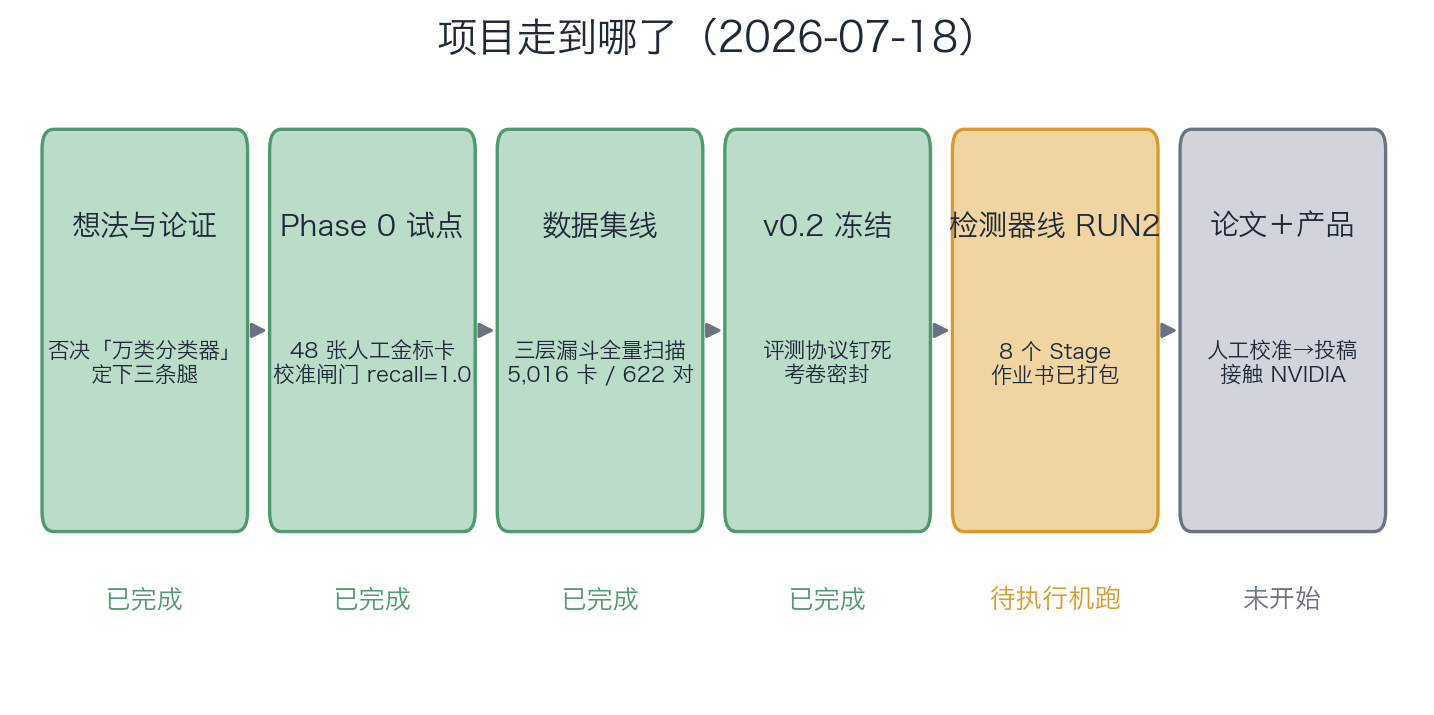
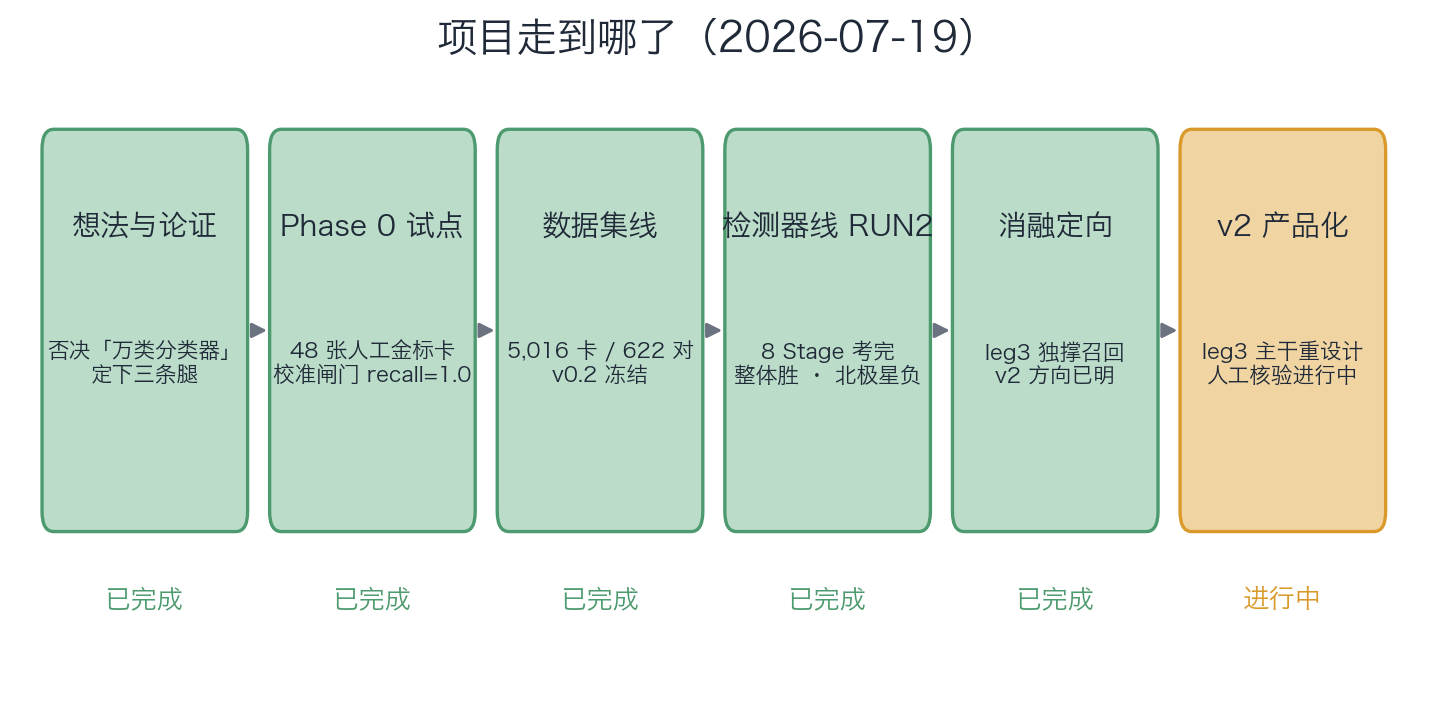
docs: summary.docx v2 — RUN2 results, ablation truth, product-first pivot
- new figure f9: five-way showdown scorecard on frozen test subset
- ch.5 rewritten from "in progress" to "done": scorecard, ablation
  (leg3 carries recall, adversarial layer fails to generalize), v2 direction
- ch.7 marked paused (product-first per 2026-07-19 decision)
- ledger updated to project total ~$7,637; appendices B/C refreshed
- roadmap f8: RUN2 done, v2 productization in progress

diff --git a/docs/summary_src/content.js b/docs/summary_src/content.js
@@ -11,7 +11,7 @@ module.exports = [
   "有半小时：读第 1 到第 6 章，能完整理解我们做了什么、正在做什么、最终做成什么。",
   "要完整掌握（包括论文策略、花费、每个数字的出处）：通读全文加附录。",
 ]},
-{p: "文中所有数字都来自 2026-07-18 冻结的数据集 v0.2 的出厂检验单（`reports/dataset_stats.md`）与第二轮作业书（`RUN2_INSTRUCTIONS.md`），撰写本文时已逐一与磁盘上的数据文件核对过。"},
+{p: "文中所有数字来自数据集 v0.2 出厂检验单（`dataset_stats.md`）、第二轮作业书（`RUN2_INSTRUCTIONS.md`），以及 2026-07-19 回运的 RUN2 正式成绩单（`baseline_results.md` / `detector_v1_results.md`）；撰写与更新时均逐一与磁盘文件核对，并经独立审查 agent 三路交叉验证。"},
 {pb: true},
 
 // ==================== 第 1 章 ====================
@@ -30,7 +30,7 @@ module.exports = [
 
 {h2: "1.4 项目走到哪了"},
 {img: {name: "f8_roadmap", cap: "图 2 · 项目进度（2026-07-18）"}},
-{p: "一句话概括现状：**数据集已经全部做完并冻结**（花费约 $4,470）；**检测器的全部实验已写成一份自包含的作业书**（预算帽 $2,000），打包在 `~/Desktop/papers/AI_infra/DB/ai_infra_run2.zip`，等着搬到执行机上跑。跑完之后，我们手里就有「strict-review 对我们的检测器，同一张考卷上的真实比分」。"},
+{p: "一句话概括现状：数据集做完冻结（$4,470），检测器第一版也已经考完试（RUN2，$3,167，经批准）——**「strict-review 对我们」的真实比分已经拿到**（见 5.5 节）：整体我们赢，北极星暂输，而消融实验把 v2 该怎么改指得清清楚楚。项目已整理进 `bug_detect/` 主目录（含所有开发 agent 必读的项目宪章 `constitution.md`），并推送到 GitHub 仓库 `huthvincent/strict-review`。**方向调整（2026-07-19，Rui 拍板）：产品优先，暂缓论文**——目标就是做出真正可用、真正更好的 strict-review 替代品。"},
 {pb: true},
 
 // ==================== 第 2 章 ====================
@@ -228,10 +228,10 @@ module.exports = [
 {pb: true},
 
 // ==================== 第 5 章 ====================
-{h1: "第 5 章 · 正在做：检测器线（RUN2 作业书）"},
+{h1: "第 5 章 · 已完成：检测器线（RUN2）及其结果"},
 
-{h2: "5.1 这一轮要回答的问题"},
-{p: "数据集回答的是「考卷是什么」；这一轮回答四个问题：**对手考多少分？我们的检测器 v1 考多少分？换个仓库还灵吗？对真实的、谁都没见过的新 commit 灵吗？** 全部工作已写成一份自包含的作业书 `RUN2_INSTRUCTIONS.md`（执行机的入口导引 `NEXT_FOR_EXECUTOR.md` 只有一页，直接指向它），8 个阶段，预算帽 $2,000，估算合计约 $1,450——下文各 Stage 括号里的金额是**分帽上限**（加总 $1,520，含缓冲），不是估算值。"},
+{h2: "5.1 这一轮回答了什么"},
+{p: "数据集回答的是「考卷是什么」；这一轮回答四个问题：**对手考多少分？我们的检测器 v1 考多少分？换个仓库还灵吗？对真实的、谁都没见过的新 commit 灵吗？** 全部工作写成一份自包含的作业书 `RUN2_INSTRUCTIONS.md`，8 个阶段，**已于 2026-07-19 在执行机上全部跑完并通过三路验收**。实际花费 $3,167——原帽 $2,000，中途经 Rui 批准上调至约 $3,000，超出部分已按宪章留痕。下文按阶段介绍各做了什么（括号里是当时的分帽上限），成绩单在 5.5。"},
 {img: {name: "f6_run2", cap: "图 8 · RUN2 的 8 个 Stage 与预算分配"}},
 
 {h2: "5.2 两条不可违反的铁律"},
@@ -239,6 +239,7 @@ module.exports = [
   "**test 只碰一次**。所有开发、调参、prompt 迭代只准在 dev 上做；配置冻结后在 test 上跑**唯一一次**，效果不佳也如实报告，绝不回头改了再跑。否则就是「反复偷看考卷直到考好」，数字作废。",
   "**呈现规则**（4.9 ②）贯穿全程：任何检测器（包括对手 baseline）的输入里禁止出现事后字段。",
 ]},
+{p: "执行结果：两条铁律全程未破——15 份预测文件逐行核验 `leak_attempt` 均为 0；test 只在 Stage 4 开封一次，冻结版成绩不理想也**没有**回头改配置重跑（正因如此，5.5 的消融发现才可信）。"},
 
 {h2: "5.3 八个阶段逐个说"},
 {h3: "Stage 1 · 评测地基（$60）"},
@@ -264,9 +265,9 @@ module.exports = [
 {h3: "Stage 5 · 跨仓库泛化（$120）"},
 {p: "用「训练时完全不看 Megatron-LM、只用另外三个仓库的知识」的检测器去考 Megatron-LM 的题，回答「这套方法换个新仓库还灵吗」——这决定产品能不能推广到 Megatron 之外。"},
 {h3: "Stage 6 · 前瞻试运行（$40）"},
-{p: "历史考卷再漂亮也不等于上线能用。这一步 `git fetch` 更新四个仓库的本地副本，然后取 **Megatron-LM 上数据集完全没见过的新 commit**（2026-07-01 之后的全部提交；不足 80 个则放宽到 06-15 之后），用冻结的检测器盲跑一遍。它直接回答「这套东西上线到底能不能用」——产品 demo 的雏形，产出可以拿给 NVIDIA 的人看。"},
+{p: "历史考卷再漂亮也不等于上线能用。这一步 `git fetch` 更新四个仓库的本地副本，然后取 **Megatron-LM 上数据集完全没见过的新 commit**（2026-07-01 之后的全部提交；不足 80 个则放宽到 06-15 之后），用冻结的检测器盲跑一遍。它直接回答「这套东西上线到底能不能用」——产品 demo 的雏形，产出可以拿给 NVIDIA 的人看（实跑 61 个新 commit，结果见 5.5）。"},
 {h3: "Stage 7 · 人工验证抽样包（$20）"},
-{p: "生成一个给 Rui 判的抽样包：150 个回归配对＋357 张案例卡（357 是按统计学惯例算的：对 5,016 张卡做 95% 置信度、5% 误差的抽样所需量），每项只需判「对 / 错」，预计 1–3 天。这是全项目**唯一只有人能做**的事，决定论文能否从「机器共识」升级为「人工校准」（见 7.3）。"},
+{p: "生成一个给 Rui 判的抽样包：150 个回归配对＋360 张案例卡（目标 357——对 5,016 张卡做 95% 置信度、5% 误差抽样的统计学标准量；为保证每个大类至少 5 张而补足到 360），每项只需判「对 / 错」，预计 1–3 天。这是全项目**唯一只有人能做**的事，也是机器标注质量的最终校准。抽样包已生成，在 `bug_detect/audit/`，等 Rui 回填。"},
 {h3: "Stage 8 · 论文素材包（$30）"},
 {p: "把全部数字整理成论文可直接引用的表格与图数据，成绩单顶部固定印静态天花板 57.1% 与记忆污染探测结果。"},
 
@@ -284,8 +285,13 @@ module.exports = [
   "}",
 ]},
 
-{h2: "5.5 跑完之后项目在哪"},
-{p: "RUN2 结束时我们将拥有：对手与我们在同一张密封考卷上的比分、每个部件的贡献证明（消融）、跨仓泛化数字、真实新 commit 上的前瞻表现、等待人工判定的验证包、以及论文全套素材。换句话说：**除了「Rui 花 1–3 天判抽样包」之外，一篇数据集＋检测器论文的全部实验就绪。**"},
+{h2: "5.5 成绩单：谁赢了，输在哪，v2 怎么改"},
+{img: {name: "f9_showdown", cap: "图 9 · 五位选手在同一张密封考卷上的实测成绩（judge κ=0.926，跨家族一致 89%）"}},
+{p: "**第一层：对手比想象中弱，而且弱得有趣。** strict-review 整体召回 13.1%、北极星 14.9%、误报率 17%；而**什么清单都不给的裸 Opus 召回几乎一样（12.2% / 14.9%），误报率却只有 5%**——NVIDIA 那 140 行手写 rubric 在召回上零增益，还把误报率抬了三倍多。关键词法 0% 坐实「任务不在 commit 文字里」；异族的 Nova Pro 全面落后，坐实排行榜不是在测「与标注者 Opus 的亲缘度」。"},
+{p: "**第二层：我们的冻结版赢了整体、输了北极星。** 检测器 v1：整体 **18.6%**（高于所有对手），单价还便宜 33%（$0.233 对 $0.347）；但北极星（回归修复类）12.3%，输给两条 Opus baseline 的 14.9%；误报率 14.9% 也不算好看。这是一个如实上报的混合结果。"},
+{p: "**第三层（最重要）：消融揭示了输在哪，而答案是好消息。** 腿 3（风险路由）一条腿承载了几乎全部召回——去掉它，整体从 18.6% 崩到 3.5%（−15.1 个百分点）；腿 1、腿 2 和对抗验证层在 test 上全是**净负贡献**（低质发现挤占了每 commit 只有 2 条的报警名额；对抗层在 dev 上降 7 个点误报的收益，到 test 缩水成 2.8 个点，召回代价却不变——典型的泛化失败）。**预登记的消融变体「去掉对抗层」北极星拿到 18.0%，反超所有选手**——因为消融是冻结前写进作业书的授权动作，这个数字可以正当引用。v2 的方向由此毫无悬念：**以腿 3 为主干，其余组件重新设计后才准回来。**"},
+{p: "**第四层：能不能用？** 前瞻试运行对 61 个数据集从没见过的 Megatron 新 commit 盲跑，26 个被标记（43%——作为门禁偏话痨，v2 要压）。质量分化明显：腿 2/腿 3 出的多条是机制级分析（如「默认路由策略被同时改了三处」「每个 microbatch 强制一次阻塞式 all-gather」），一看就值得人审；腿 1 的静态规则则有肉眼可见的误报模式（匹配到了测试夹具代码）。top-20 勾选清单在 `bug_detect/detector/reports/prospective_run.md`，**Rui 判完它，就是给 NVIDIA 的第一份 demo 材料**。"},
+{p: "其余数字：跨仓泛化实验显示排除 Megatron 知识只损失 4.8 个百分点（腿 1/腿 2 本来贡献就小）；记忆污染探测扩到全量 934 项仍为 0；对终极目标最重要的资产——`leg3_recipe_map.json`（74 个叶子 → Megatron 性能测试配方的映射表）——已经在手，可直接交付。"},
 {pb: true},
 
 // ==================== 第 6 章 ====================
@@ -313,7 +319,7 @@ module.exports = [
   ["验证", "无", "对抗验证杀误报＋性能 CI 实测数字"],
   ["误报控制", "无机制", "预算制（每 commit 最多 2 条）＋对抗层"],
   ["可检测范围", "只能静态看（上限 57.1%）", "静态 57.1% ＋ 路由实测覆盖其余 42.9%"],
-  ["成绩", "从未被测量", "与我们同卷对决，数字见 RUN2"],
+  ["成绩（RUN2 实测）", "整体 13.1% / 北极星 14.9% / 误报 17%", "v1 整体 18.6%（已胜）；北极星 12.3%，消融证明 ≥18% 可达（v2 目标）"],
 ]}},
 
 {h2: "6.3 诚实边界"},
@@ -321,7 +327,9 @@ module.exports = [
 {pb: true},
 
 // ==================== 第 7 章 ====================
-{h1: "第 7 章 · 论文与竞争格局"},
+{h1: "第 7 章 · 论文与竞争格局（已暂缓，留作背景）"},
+
+{quote: "2026-07-19 更新：Rui 决定**产品优先，暂缓论文**——现在的目的就是做出真正可以替代、做得更好、很有用的 strict-review。本章保留为背景与素材地图：其中的竞品事实、必引文献、人工验证惯例等回到投稿时依然成立，且 RUN2 已把 baseline 实测数字全部备齐（见 5.5）。"},
 
 {h2: "7.1 一次重要的自我纠错：novelty 必须改写"},
 {p: "我们最初以为「公开的 AI infra 性能 bug 数据集不存在」。2026-07-18 沿四个方向（数据集竞品、检测器前作、人工验证惯例、可执行验证惯例）做的一轮系统调研证伪了这一点——同域公开竞品有三个，而且全部可下载："},
@@ -363,20 +371,23 @@ module.exports = [
   "**执行机**（AWS EC2 ＋ Bedrock）：全项目唯一有 LLM 接口的地方，跑一切费钱的活。项目正本在 `/mnt/efs/tsfm/rui/GAA/ai_infra/`。纪律：所有产出只写本地、本地 git 打 tag、**不上 GitHub**——数据集一旦进入公网，就可能被未来模型的训练数据吸收，「记忆污染 0/196」这个卖点和之后所有评测的公正性都会被毁掉。",
   "**Mac（本机）**：没有任何 LLM API，但登录着 GitHub 命令行（负责抓取 issue 等公开数据）、负责写作业书和分析结果。工作副本在 `~/Desktop/papers/AI_infra/DB/ai_infra_v011_work/`。",
   "**吃过的亏**：zip 传输会悄悄截断大文件。解法已成惯例——核对数据**先信 `.git` 不信工作区**：`git status` 发现异动就 `git restore .`，git 内部存储是完好的（不在 git 里的缓存目录单独校验）。",
+  "**项目主目录（2026-07-19 整理定型）**：`~/Desktop/papers/AI_infra/bug_detect/`。根有项目宪章 `constitution.md`（把方法学、误报、架构、预算、穿梭等九类纪律写成所有开发 agent 开工前必读的章程，随开发追加）；每个文件夹强制两件套 `ReadMeFirst.md`（规范）＋`FinalReport.md`（现状），每次开发当次更新。整仓已推送 GitHub `github.com/huthvincent/strict-review`（public；穿梭正本与大 zip 除外）。后续开发采用主 agent ＋ 子 agent 模式（分工见 `docs/agent_playbook.md`）。",
 ]},
 
 {h2: "8.2 账本"},
 {table: {headers: ["条目", "金额", "状态"], rows: [
   ["数据集线全部（Tier-1 筛查 $1,079 ＋ Tier-2 深读 $2,268 ＋配对/负样本/仲裁等）", "~$4,470", "已花（帽 $6,000＋$700，均未触）"],
-  ["RUN2 检测器线全部 8 个 Stage", "估 ~$1,450", "待跑（帽 $2,000）"],
-  ["（可选）可执行复现子集 100–150 对", "$2,000–5,000", "视投稿目标决定"],
+  ["RUN2 检测器线全部 8 个 Stage", "~$3,167", "已花（原帽 $2,000，中途经 Rui 批准上调至 ~$3k，超出 $167 已留痕）"],
+  ["**全项目累计**", "**≈ $7,637**", "—"],
+  ["（可选）可执行复现子集 100–150 对", "$2,000–5,000", "论文暂缓后不急"],
 ]}},
 
-{h2: "8.3 下一步（按优先级）"},
+{h2: "8.3 下一步（产品优先排序）"},
 {nums: [
-  "**搬运**：把 `ai_infra_run2.zip` 传到执行机，让它读 `NEXT_FOR_EXECUTOR.md` 开跑 8 个 Stage，跑完打包回传。",
-  "**人判**：Rui 判 Stage 7 的抽样包（150 对＋357 卡，只判对/错，1–3 天）——全项目唯一只有人能做的事。",
-  "**之后**：按 RUN2 结果决定投稿路线（7.4 的地图）；用 Stage 6 的前瞻结果作为敲 NVIDIA 门的 demo；v2 方向（训练比对模型、可执行子集）。",
+  "**v2 检测器开发**：以腿 3 为主干，重新设计腿 1/腿 2 的质量门槛与对抗层（依据 5.5 的消融证据）；采用主 agent＋子 agent 开发模式，人人先读宪章。",
+  "**人判两包**：Rui 判 `audit/` 抽样包（360 卡＋150 对，机器标注的最终校准）与前瞻 top-20（给 NVIDIA 的第一份 demo 材料，也是 v2 的误报样本来源）。",
+  "**数据集 v0.3**：清理负样本重复伪影 → 更新 `dataset/` 镜像 → 同步 HuggingFace（便利用途）。",
+  "**下次穿梭顺带**：judge 判分缓存、git tag 清单、T1/T4 统一重判、run2 目录纳入 git。",
 ]},
 {pb: true},
 
@@ -472,24 +483,33 @@ module.exports = [
   ["10%", "Google Tricorder 的误报率红线；也是 Megatron 性能 CI 的吞吐报警阈值"],
   ["0.694", "Mozilla 微调模型做同类任务的 ROC-AUC（弱参照）"],
   ["329", "claude[bot] 已评论的 PR 数（对手是真实在役系统）"],
-  ["150 ＋ 357", "人工验证抽样包的构成（配对＋卡片）"],
-  ["~$4,470 / $2,000", "数据集线已花费 / RUN2 预算帽"],
+  ["13.1% / 14.9% / 17%", "strict-review 实测：整体@2 / 北极星 / 误报率（RUN2）"],
+  ["12.2% / 14.9% / 5%", "裸 Opus 实测——手写 rubric 零召回增益、误报×3 的铁证"],
+  ["18.6% / 12.3% / 14.9%", "检测器 v1 冻结版实测：整体（胜）/ 北极星（负）/ 误报率"],
+  ["−15.1pp / +5.2pp", "消融：去掉腿 3 的召回损失 / 去掉对抗层反而的收益"],
+  ["18.0%", "预登记消融（去对抗层）的北极星——v2 可达性证据"],
+  ["61 / 26 / 43%", "前瞻试运行：未见新 commit 数 / 触发数 / 触发率"],
+  ["0.926 / 89%", "judge 双判 κ / 跨家族（Nova）一致率"],
+  ["150 ＋ 360", "人工验证抽样包的构成（配对＋卡片；目标 357，每类≥5 补足）"],
+  ["$4,470 ＋ $3,167 ≈ $7,637", "数据集线 ＋ RUN2（经批准）＝ 全项目累计花费"],
 ]}},
 
 // ==================== 附录 C ====================
-{h1: "附录 C · 关键文件与路径"},
+{h1: "附录 C · 关键文件与路径（2026-07-19 新布局）"},
+{p: "项目已整体收纳进主目录 `~/Desktop/papers/AI_infra/bug_detect/`（GitHub：`github.com/huthvincent/strict-review`）。每个子目录都有 `ReadMeFirst.md`（规范）与 `FinalReport.md`（现状）。"},
 {table: {size: 9, headers: ["位置", "内容"], rows: [
-  ["~/Desktop/papers/AI_infra/DB/ai_infra_v011_work/", "Mac 上的项目工作副本（本文档数字的核对来源）"],
-  ["~/Desktop/papers/AI_infra/DB/ai_infra_run2.zip", "待搬运到执行机的第二轮传输包（103MB）"],
-  ["RUN2_INSTRUCTIONS.md", "第二轮唯一作业书（执行机入口见 NEXT_FOR_EXECUTOR.md）"],
-  ["reports/dataset_stats.md", "数据集 v0.2 出厂检验单"],
-  ["splits/protocol.md ＋ splits/FROZEN", "冻结的评测协议与封条"],
-  ["prompts/baseline_megatron.v1.md", "对手 strict-review 的忠实适配版 prompt"],
-  ["prompts/eval_judge.v1.md", "LLM 裁判的判分标准（含四个判例）"],
-  ["/mnt/efs/tsfm/rui/GAA/ai_infra/", "执行机上的项目正本"],
-  ["~/Desktop/OPB/perf-agent/phase0/", "Phase 0 试点产物（pilot gold 原始文件、对手 prompt 钉版）"],
-  ["github.com/huthvincent/GAA/ai_infra.md", "最初的 Phase 0 计划文档（历史存档）"],
-  ["本地 git tags：v0.1 / v0.1.1 / v0.2", "数据集三个冻结版本"],
+  ["bug_detect/constitution.md", "**项目宪章**——一切开发 agent 开工前必读，九类纪律，随开发追加"],
+  ["bug_detect/dataset/", "数据集 v0.2 发布镜像（HuggingFace 同步根；数据卡 README.md 已备）"],
+  ["bug_detect/detector/", "检测器 v1：冻结配置、31＋254 条规则集、leg3_recipe_map.json、全部报告、前瞻试运行"],
+  ["bug_detect/evaluation/", "考场：harness 代码、冻结考卷、judge、四 baseline 成绩单、全部预测文件"],
+  ["bug_detect/audit/", "待 Rui 判：360 卡＋150 对抽样包＋回填模板＋判法说明"],
+  ["bug_detect/paper/", "论文素材（暂缓，随开发继续积累）"],
+  ["bug_detect/workspace/ai_infra_v011_work/", "穿梭工作正本（.git，tags v0.1–v0.2；不上 GitHub）"],
+  ["bug_detect/docs/", "本文档构建源（summary_src/）＋ multi-agent 作战手册（agent_playbook.md）"],
+  ["bug_detect/archive/", "6 个穿梭 zip 原件＋RUN2 发货文档＋预算批准决策留痕"],
+  ["/mnt/efs/tsfm/rui/GAA/ai_infra*", "执行机上的正本（数据集线＋run2 检测器线）"],
+  ["~/Desktop/OPB/perf-agent/phase0/", "Phase 0 试点原始产物（未搬动，workspace 内有拷贝）"],
+  ["本地 git tags：v0.1 / v0.1.1 / v0.2", "数据集三个冻结版本（执行机另有 run2 各 tag）"],
 ]}},
-{p: "（本文档由 Claude 于 2026-07-18 整理，所有数据均与上述文件核对。）"},
+{p: "（本文档第二版由 Claude 于 2026-07-19 更新：新增 RUN2 全部实测结果与图 9、产品优先的方向调整、bug_detect 目录制度与宪章。所有数据均与磁盘文件核对。）"},
 ];

diff --git a/docs/summary_src/build.js b/docs/summary_src/build.js
@@ -50,9 +50,9 @@ children.push(
   new Paragraph({ alignment: AlignmentType.CENTER, spacing: { after: 2000 },
     children: [new TextRun({ text: "给 Megatron-LM 等 AI 基础设施仓库造一个「更好的 /claude strict-review」", size: 24, color: GRAY, font: FONT })] }),
   new Paragraph({ alignment: AlignmentType.CENTER,
-    children: [new TextRun({ text: "Rui Zhu · 2026 年 7 月 18 日", size: 24, color: INK, font: FONT })] }),
+    children: [new TextRun({ text: "Rui Zhu · 2026 年 7 月 19 日（第二版）", size: 24, color: INK, font: FONT })] }),
   new Paragraph({ alignment: AlignmentType.CENTER, spacing: { before: 100 },
-    children: [new TextRun({ text: "数据集 v0.2（已冻结） · 检测器线 RUN2（待执行）", size: 20, color: GRAY, font: FONT })] }),
+    children: [new TextRun({ text: "数据集 v0.2 已冻结 · 检测器 v1 已考试（整体胜 · 北极星负 · v2 方向已明）", size: 20, color: GRAY, font: FONT })] }),
   new Paragraph({ children: [new PageBreak()] }),
 );
 
@@ -65,9 +65,9 @@ const tocItems = [
   ["第 2 章 · 背景：我们要解决什么问题", "AI infra / 性能回归 / 两个现役守门员"],
   ["第 3 章 · 想法的演化", "被否决的方案 → 三条腿架构"],
   ["第 4 章 · 已完成：数据集线", "漏斗 / 案例卡 / 配对 / 协议 / 质量 / 局限"],
-  ["第 5 章 · 正在做：检测器线 RUN2", "两条铁律 / 八个 Stage"],
+  ["第 5 章 · 已完成：检测器线 RUN2 及其结果", "八个 Stage / 成绩单 / 消融真相 / v2 方向"],
   ["第 6 章 · 终极产品", "走一遍未来的一天 / 正面对比 / 诚实边界"],
-  ["第 7 章 · 论文与竞争格局", "novelty 修正 / 三个缺口 / 投稿地图"],
+  ["第 7 章 · 论文与竞争格局（已暂缓）", "novelty 修正 / 三个缺口 / 投稿地图"],
   ["第 8 章 · 工作方式、账本与下一步", ""],
   ["附录 A · 名词速查表", "约 60 个术语"],
   ["附录 B · 关键数字速查表", ""],

diff --git a/docs/summary_src/make_figs.py b/docs/summary_src/make_figs.py
@@ -190,10 +190,10 @@ fig, ax = plt.subplots(figsize=(9, 4.0))
 phases = [
     ("想法与论证", "否决「万类分类器」\n定下三条腿", GREEN, "已完成"),
     ("Phase 0 试点", "48 张人工金标卡\n校准闸门 recall=1.0", GREEN, "已完成"),
-    ("数据集线", "三层漏斗全量扫描\n5,016 卡 / 622 对", GREEN, "已完成"),
-    ("v0.2 冻结", "评测协议钉死\n考卷密封", GREEN, "已完成"),
-    ("检测器线 RUN2", "8 个 Stage\n作业书已打包", AMBER, "待执行机跑"),
-    ("论文＋产品", "人工校准→投稿\n接触 NVIDIA", GRAY_L, "未开始"),
+    ("数据集线", "5,016 卡 / 622 对\nv0.2 冻结", GREEN, "已完成"),
+    ("检测器线 RUN2", "8 Stage 考完\n整体胜 · 北极星负", GREEN, "已完成"),
+    ("消融定向", "leg3 独撑召回\nv2 方向已明", GREEN, "已完成"),
+    ("v2 产品化", "leg3 主干重设计\n人工核验进行中", AMBER, "进行中"),
 ]
 n = len(phases)
 for i, (name, sub, color, status) in enumerate(phases):
@@ -205,11 +205,36 @@ for i, (name, sub, color, status) in enumerate(phases):
     ax.text(x + 0.65, 2.16, name, ha="center", va="center", fontsize=10.5, color=INK, fontweight="bold")
     ax.text(x + 0.65, 1.62, sub, ha="center", va="center", fontsize=7.8, color=INK)
     ax.text(x + 0.65, 0.68, status, ha="center", va="center", fontsize=9.5,
-            color=(GREEN if status == "已完成" else (AMBER if status == "待执行机跑" else GRAY)))
+            color=(GREEN if status == "已完成" else (AMBER if status == "进行中" else GRAY)))
     if i < n - 1:
         ax.add_patch(FancyArrowPatch((x + 1.38, 1.75), (x + 1.52, 1.75), arrowstyle="-|>",
                      mutation_scale=11, color=GRAY, lw=1.1))
 ax.set_xlim(-0.2, n * 1.55); ax.set_ylim(0.3, 2.75); ax.axis("off")
-ax.set_title("项目走到哪了（2026-07-18）", fontsize=14.5, color=INK, pad=10)
+ax.set_title("项目走到哪了（2026-07-19）", fontsize=14.5, color=INK, pad=10)
 save(fig, "f8_roadmap")
+
+# ---------------- F9 对决成绩 ----------------
+import numpy as np
+fig, ax = plt.subplots(figsize=(9, 4.6))
+names = ["strict-review\n（对手）", "裸 Opus", "关键词", "Nova Pro\n（异族）", "检测器 v1\n（冻结版）"]
+overall = [13.1, 12.2, 0.0, 6.5, 18.6]
+regfix = [14.9, 14.9, 0.0, 8.0, 12.3]
+fpr = [17.2, 4.8, 4.6, 23.5, 14.9]
+x = np.arange(len(names)); w = 0.26
+b1 = ax.bar(x - w, overall, w, color=BLUE, label="整体召回@2")
+b2 = ax.bar(x, regfix, w, color=AMBER, label="北极星（回归修复）@2")
+b3 = ax.bar(x + w, fpr, w, color=RED_L, label="误报率（越低越好）")
+for bars in (b1, b2, b3):
+    for b in bars:
+        ax.text(b.get_x() + b.get_width() / 2, b.get_height() + 0.4, f"{b.get_height():.1f}",
+                ha="center", va="bottom", fontsize=8.5, color=INK)
+ax.axhline(18.0, color=GREEN, lw=1.2, ls="--")
+ax.text(1.62, 19.2, "18.0 = 预登记消融（去对抗层）的北极星 —— v2 的可达性证据", fontsize=9, color=GREEN, ha="center", va="bottom")
+ax.set_xticks(x); ax.set_xticklabels(names, fontsize=10)
+ax.set_ylim(0, 27); ax.set_ylabel("%", fontsize=10)
+ax.spines[["top", "right"]].set_visible(False)
+ax.legend(loc="upper left", fontsize=9, frameon=False)
+ax.set_title("同一张密封考卷上的对决（RUN2 实测，判分 κ=0.926）", fontsize=14, color=INK, pad=10)
+save(fig, "f9_showdown")
 print("ALL DONE")
+

diff --git a/docs/FinalReport.md b/docs/FinalReport.md
@@ -1,21 +1,28 @@
 # docs/ — 现状总报告
 
-> 截至 2026-07-19。
+> 截至 2026-07-19（summary 第二版已发布）。
 
 ## 状态
 
-`../../summary.docx` 当前版本为 **2026-07-18 版**（30 页、8 图、约 60 词名词表；
-成稿时经三路 agent 审查修订 20 处，数字与磁盘文件逐一核验）。
-构建源已从会话临时目录抢救进 `summary_src/`，可完整重建。
+`../../summary.docx` 当前为 **2026-07-19 第二版**（约 33 页、9 图、约 60 词名词表）。
+构建源在 `summary_src/`，可完整重建（流程见 `ReadMeFirst.md`）。
 
-## 已过时、待下次更新的内容
+第二版相对首版（2026-07-18）的更新（一次"大更新"，宪章 8.3）：
+- 封面/进度图 f8：RUN2 标为已完成，新增"v2 产品化 · 进行中"段；
+- **第 5 章重写**：从"正在做"改为"已完成"，新增成绩单（新图 f9 五方对决）、
+  消融真相（leg3 独撑、对抗层泛化失败）、v2 方向；
+- 第 7 章加暂缓声明（产品优先）；
+- 第 8 章账本更新为全项目累计 ≈$7,637（含 RUN2 经批准的 $3,167）；
+- 附录 B 补 RUN2 全部实测数字；附录 C 换为 bug_detect 新目录布局；
+- 阅读指南补记数据来源含 RUN2 成绩单。
 
-summary.docx 写于 RUN2 执行**之前**，以下章节已落后于事实：
-- 第 5 章"正在做"：RUN2 已跑完（8 Stage 全完成，$3,167）；
-- 第 7 章预算与进度：需加入 baseline 实测数字（strict 14.9%、裸模型同分低误报、
-  keyword 0%）、detector_v1 结果（18.6%/12.3%）与消融真相（leg3 独撑）；
-- 第 8 章账本：全项目累计 ≈$7,637；
-- 进度图 f8：RUN2 从"待执行机跑"改"已完成"，新增"人工验证/v2"当前段。
+验证：因本机无 LibreOffice、Word 转 PDF 超时，用 zipfile 结构核验（9 图全嵌入、
+14 表格、关键内容齐全）＋ QuickLook 首页渲染确认，未做逐页 PDF 目检。
 
-按宪章 8.3，这构成一次"大更新"，**下一个阶段性节点（人工审计回填或 v2 首个里程碑）
-时执行更新**；若 Rui 要求也可立即更新。
+## 另有
+
+`agent_playbook.md`：multi-agent 作战手册（宪章第 10 条落地）。
+
+## 待下次更新
+
+人工审计回填后（Rui 判完 audit 包）或 v2 首个里程碑时，再更新 summary。